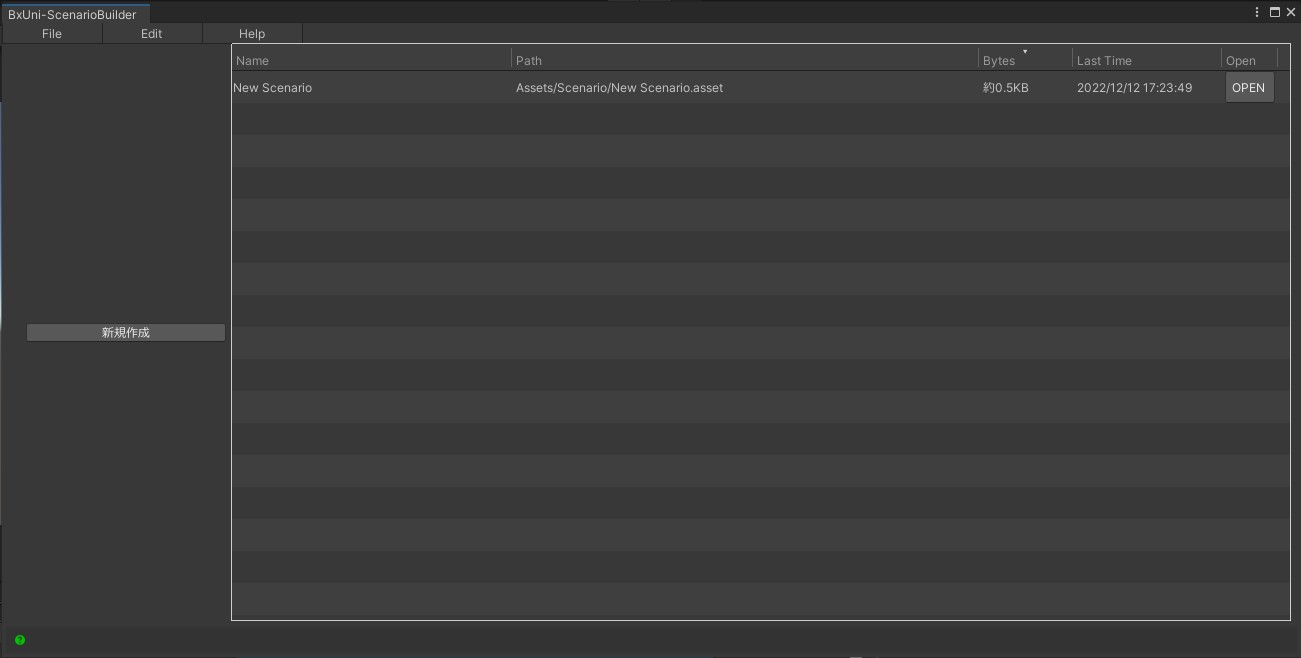
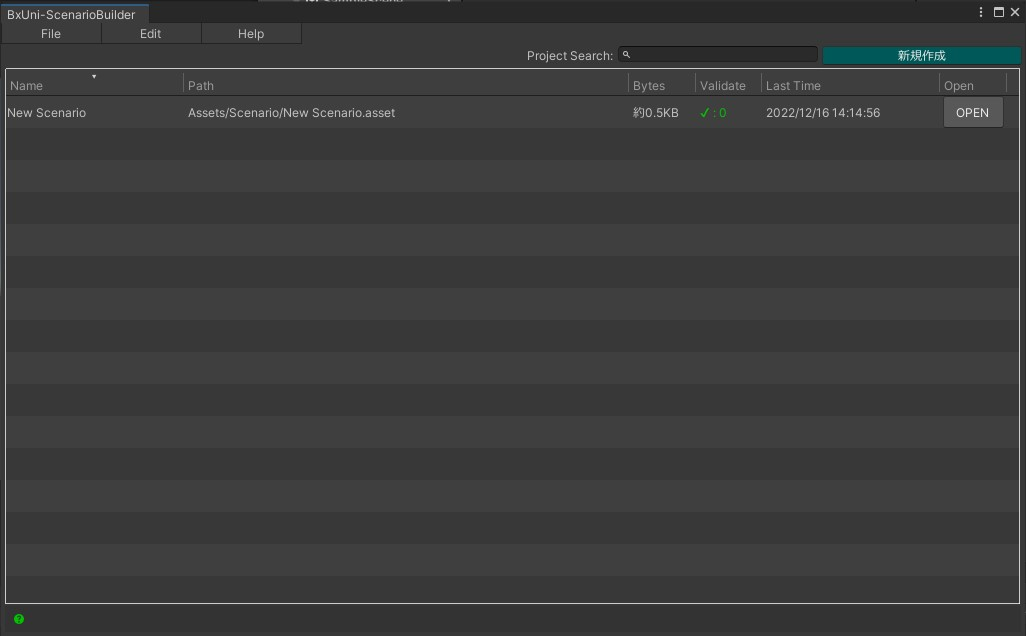
Update: 起動時画面の修正

diff --git a/Packages/BxUni-ScenarioBuilder/Editor/Scripts/EditorGUI/Dock/InitializeArea.cs b/Packages/BxUni-ScenarioBuilder/Editor/Scripts/EditorGUI/Dock/InitializeArea.cs
@@ -1,5 +1,6 @@
 using UnityEngine;
 using UnityEditor.IMGUI.Controls;
+using UnityEditor;
 
 namespace BxUni.ScenarioBuilder.EditorInternal
 {
@@ -8,6 +9,9 @@ namespace BxUni.ScenarioBuilder.EditorInternal
     /// </summary>
     internal class InitializeArea
     {
+        static readonly string k_searchStringStateKey = $"{PlayerSettings.productGUID}_searchStringState";
+
+        SearchField m_searchField;
         ScenarioTable m_table;
 
         internal void Initialize()
@@ -15,7 +19,14 @@ namespace BxUni.ScenarioBuilder.EditorInternal
             var state = new TreeViewState();
             var header = new ScenarioTableHeader();
 
-            m_table = new ScenarioTable(state, header);       
+            m_table = new ScenarioTable(state, header)
+            {
+                searchString = SessionState.GetString(k_searchStringStateKey, string.Empty)
+            };
+
+            m_searchField = new SearchField();
+            m_searchField.downOrUpArrowKeyPressed
+                += m_table.SetFocusAndEnsureSelectedItem;
         }
 
         internal void DrawLayout()
@@ -27,34 +38,46 @@ namespace BxUni.ScenarioBuilder.EditorInternal
 
             if (m_table.AnyItems())
             {
-                using var h1 = new HorizontalCenterScope(GUILayout.Width(300));
-                using (var v1 = new VerticalCenterScope())
+                using var v1 = new EditorGUILayout.VerticalScope();
+                using (new EditorGUILayout.HorizontalScope())
                 {
+                    GUILayout.FlexibleSpace();
+
+                    EditorGUILayout.LabelField("Project Search:", GUILayout.Width(90));
+                    using (var checkScope = new EditorGUI.ChangeCheckScope())
+                    {
+                        string search = m_searchField.OnToolbarGUI(m_table.searchString);
+                        if (checkScope.changed)
+                        {
+                            SessionState.SetString(k_searchStringStateKey, search);
+                            m_table.searchString = search;
+                        }
+                    }
+
+                    using var _ = new BackgroundColorScope(Color.cyan);
                     if (GUILayout.Button("新規作成", GUILayout.Width(200)))
                     {
                         ScenarioBuilderEditUtility.CreateAsset();
                     }
                 }
 
-                var rect = GUILayoutUtility.GetLastRect();
-
-                using var h2 = new HorizontalCenterScope();
                 using var v2 = new VerticalCenterScope();
 
                 var window = ScenarioEditFlowWindow.Instance.position;
 
-
+                float height = EditorGUIUtility.singleLineHeight * 2;
                 var areaRect = new Rect()
                 {
-                    x = rect.width + 30,
-                    y = rect.y,
-                    width = window.width - rect.width - 40,
-                    height = rect.height,
+                    xMin = 5,
+                    xMax = window.width - 5,
+
+                    yMin = height + 10,
+                    yMax = window.height - 32,
                 };
                 m_table?.OnGUI(areaRect);
                 HandleDrawUtility.DrawRectBox(areaRect, Color.white);
             }
-            else
+            else //Project内にScenarioが1つもない時
             {
                 using var h1 = new HorizontalCenterScope();
                 using (var v1 = new VerticalCenterScope())

diff --git a/Packages/BxUni-ScenarioBuilder/Editor/Scripts/EditorGUI/Dock/TreeView/ScenarioTable.cs b/Packages/BxUni-ScenarioBuilder/Editor/Scripts/EditorGUI/Dock/TreeView/ScenarioTable.cs
@@ -10,7 +10,7 @@ namespace BxUni.ScenarioBuilder.EditorInternal
 {
     internal class ScenarioTable : TreeView
     {
-        const string k_sortedColumnIndexStateKey = "ScenarioEditWindow_sortedColumnIndex";
+        static readonly string k_sortedColumnIndexStateKey = $"{PlayerSettings.productGUID}_sortedColumnIndex";
 
         internal ScenarioTable(TreeViewState state, MultiColumnHeader multiColumnHeader)
             : base(state, multiColumnHeader)
@@ -152,7 +152,24 @@ namespace BxUni.ScenarioBuilder.EditorInternal
         protected override bool DoesItemMatchSearch(TreeViewItem item, string search)
         {
             var scenarioTableItem = (ScenarioTableItem)item;
-            return scenarioTableItem.element.Name.Contains(search);
+
+            search = search.ToLower();
+            string name = scenarioTableItem.element.Name.ToLower();
+
+            if (name.Contains(search))
+            {
+                return true;
+            }
+            return false;
+        }
+
+        protected override void SingleClickedItem(int id)
+        {
+            var item = (ScenarioTableItem)FindItem(id, rootItem);
+            if (item != null)
+            {
+                EditorGUIUtility.PingObject(item.element.ScenarioAsset);
+            }
         }
 
         protected override void DoubleClickedItem(int id)
